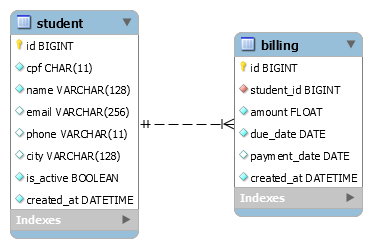
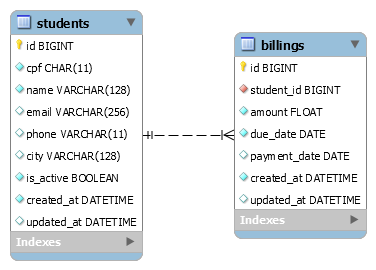
CRUD, migração e roteamento

Changed region(s): [[0.0296, 0.0282, 0.9758, 0.9879]]

diff --git a/app/Http/Controllers/StudentController.php b/app/Http/Controllers/StudentController.php
@@ -3,6 +3,7 @@
 namespace App\Http\Controllers;
 
 use Illuminate\Http\Request;
+use App\Student;
 
 class StudentController extends Controller
 {
@@ -13,7 +14,7 @@ class StudentController extends Controller
      */
     public function index()
     {
-        //
+        return Student::all();
     }
 
     /**
@@ -24,7 +25,18 @@ class StudentController extends Controller
      */
     public function store(Request $request)
     {
-        //
+        $student = new Student;
+
+        $student->cpf = $request->cpf;
+        $student->name = $request->name;
+        $student->email = $request->email;
+        $student->phone = $request->phone;
+        $student->city = $request->city;
+        $student->is_active = true;
+
+        $student->save();
+
+        return $student;
     }
 
     /**
@@ -35,7 +47,7 @@ class StudentController extends Controller
      */
     public function show($id)
     {
-        //
+        return Student::find($id);
     }
 
     /**
@@ -47,7 +59,18 @@ class StudentController extends Controller
      */
     public function update(Request $request, $id)
     {
-        //
+        $student = Student::find($id);
+        
+        $student->cpf = $request->cpf;
+        $student->name = $request->name;
+        $student->email = $request->email;
+        $student->phone = $request->phone;
+        $student->city = $request->city;
+        $student->is_active = $request->is_active;
+
+        $student->save();
+
+        return $student;
     }
 
     /**
@@ -58,6 +81,8 @@ class StudentController extends Controller
      */
     public function destroy($id)
     {
-        //
+        Student::destroy($id);
+        
+        return 204;
     }
 }

diff --git a/app/Http/Controllers/BillingController.php b/app/Http/Controllers/BillingController.php
@@ -3,6 +3,7 @@
 namespace App\Http\Controllers;
 
 use Illuminate\Http\Request;
+use App\Billing;
 
 class BillingController extends Controller
 {
@@ -13,7 +14,7 @@ class BillingController extends Controller
      */
     public function index()
     {
-        return "Peida!";
+        return Billing::all();
     }
 
     /**
@@ -24,7 +25,14 @@ class BillingController extends Controller
      */
     public function store(Request $request)
     {
-        //
+        $billing = new Billing;
+
+        $billing->amount = $request->amount;
+        $billing->due_date = $request->due_date;
+
+        $billing->save();
+        
+        return $billing;
     }
 
     /**
@@ -35,7 +43,7 @@ class BillingController extends Controller
      */
     public function show($id)
     {
-        //
+        return Billing::find($id);
     }
 
     /**
@@ -47,7 +55,14 @@ class BillingController extends Controller
      */
     public function update(Request $request, $id)
     {
-        //
+        $billing = Billing::find($id);
+
+        $billing->amount = $request->amount;
+        $billing->due_date = $request->due_date;
+
+        $billing->save();
+
+        return $billing;
     }
 
     /**
@@ -58,6 +73,8 @@ class BillingController extends Controller
      */
     public function destroy($id)
     {
-        //
+        Billing::destroy($id);
+
+        return 204;
     }
 }

diff --git a/database/migrations/2017_12_20_014025_create_students_table.php b/database/migrations/2017_12_20_014025_create_students_table.php
@@ -1,0 +1,38 @@
+<?php
+
+use Illuminate\Support\Facades\Schema;
+use Illuminate\Database\Schema\Blueprint;
+use Illuminate\Database\Migrations\Migration;
+
+class CreateStudentsTable extends Migration
+{
+    /**
+     * Run the migrations.
+     *
+     * @return void
+     */
+    public function up()
+    {
+        Schema::create('students', function (Blueprint $table) {
+            $table->increments('id');
+            $table->char('cpf', 11);
+            $table->string('name', 128);
+            $table->string('email', 256)->nullable();
+            $table->string('phone', 11)->nullable();
+            $table->string('city', 128)->nullable();
+            $table->boolean('is_active');
+            $table->dateTime('created_at');
+            $table->dateTime('updated_at')->nullable();
+        });
+    }
+
+    /**
+     * Reverse the migrations.
+     *
+     * @return void
+     */
+    public function down()
+    {
+        Schema::dropIfExists('students');
+    }
+}

diff --git a/database/migrations/2017_12_20_014010_create_billings_table.php b/database/migrations/2017_12_20_014010_create_billings_table.php
@@ -1,0 +1,35 @@
+<?php
+
+use Illuminate\Support\Facades\Schema;
+use Illuminate\Database\Schema\Blueprint;
+use Illuminate\Database\Migrations\Migration;
+
+class CreateBillingsTable extends Migration
+{
+    /**
+     * Run the migrations.
+     *
+     * @return void
+     */
+    public function up()
+    {
+        Schema::create('billings', function (Blueprint $table) {
+            $table->increments('id');
+            $table->float('amount');
+            $table->date('due_date');
+            $table->date('payment_date')->nullable();
+            $table->dateTime('created_at');
+            $table->dateTime('updated_at')->nullable();
+        });
+    }
+
+    /**
+     * Reverse the migrations.
+     *
+     * @return void
+     */
+    public function down()
+    {
+        Schema::dropIfExists('billings');
+    }
+}

diff --git a/app/Student.php b/app/Student.php
@@ -1,0 +1,12 @@
+<?php
+
+namespace App;
+
+use Illuminate\Database\Eloquent\Model;
+
+class Student extends Model
+{
+    
+    protected $fillable = ['cpf', 'name', 'email', 'phone', 'city'];
+
+}

diff --git a/app/Billing.php b/app/Billing.php
@@ -1,0 +1,12 @@
+<?php
+
+namespace App;
+
+use Illuminate\Database\Eloquent\Model;
+
+class Billing extends Model
+{
+    
+    protected $fiilable = ['amount', 'due_date'];
+
+}
